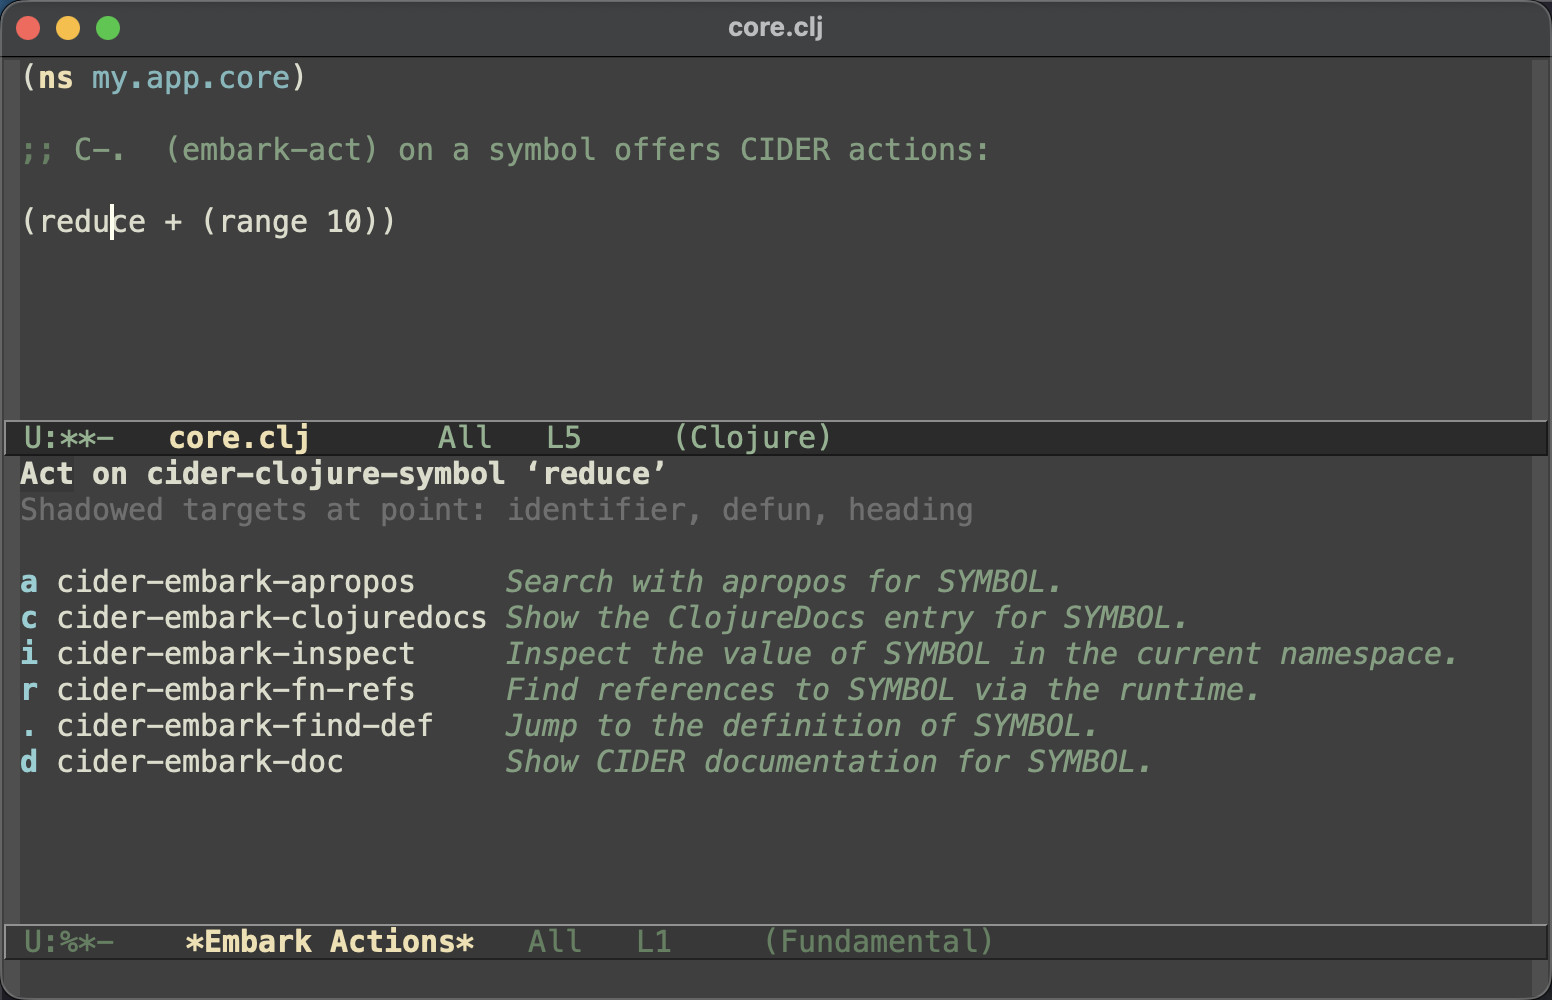
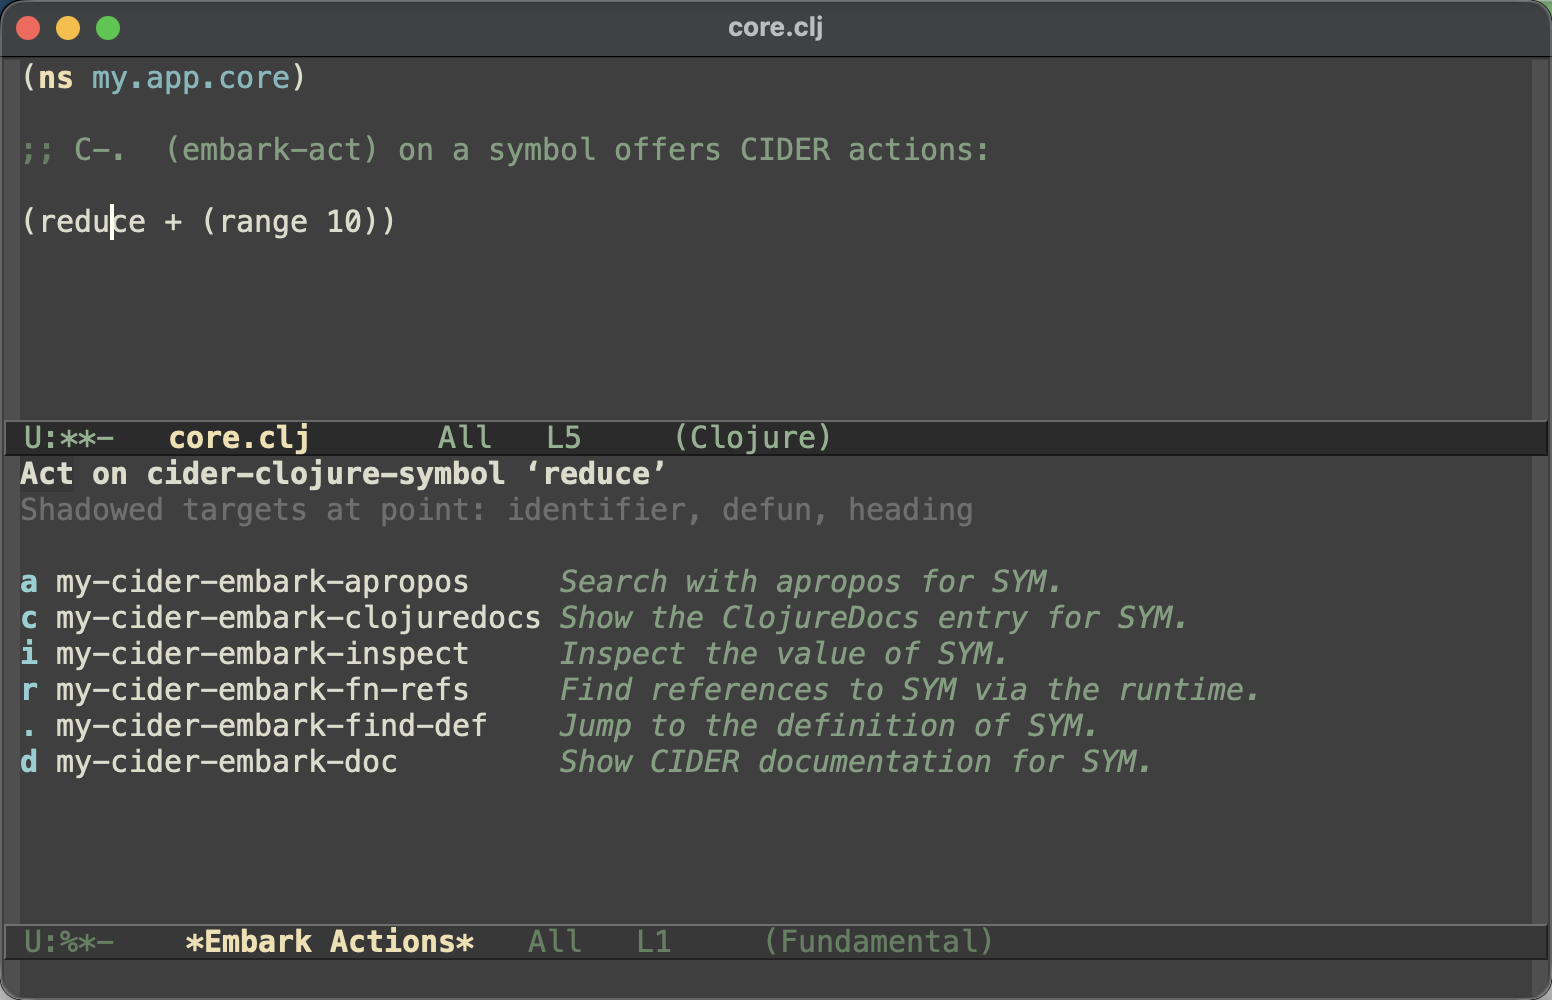
Document the Embark integration instead of shipping it
The shipped cider-embark.el coupled CIDER to an optional package and
auto-wired it, which turned out to be fragile: because the wiring was
autoloaded and the module required `cider' back, merely loading Embark pulled
in all of CIDER and could trigger a circular load.

Embark integrations are also inherently personal - which actions, which keys -
and CIDER otherwise leans on standard APIs (capf, completing-read,
affixation) rather than shipping glue for specific UI packages.  So drop the
module, the autoloaded hook and its tests, and instead document a copy-paste
recipe in the completion guide that users can drop in and tailor.

diff --git a/CHANGELOG.md b/CHANGELOG.md
@@ -10,7 +10,6 @@
 
 - [#4117](https://github.com/clojure-emacs/cider/pull/4117): Add `cider-use-completing-read-for-symbol` (off by default): when enabled, symbol prompts (e.g. `cider-doc`, `cider-find-var`) read through `completing-read` over a lazy, runtime-backed collection, so they work with `completing-read` UIs (Vertico, Ivy, Helm) and annotate candidates with their type and namespace.
 - [#4129](https://github.com/clojure-emacs/cider/pull/4129): Render completion annotations as an aligned type/namespace column (via an `affixation-function`) in UIs that support it, such as the built-in `*Completions*`, Corfu and Vertico.
-- [#4132](https://github.com/clojure-emacs/cider/pull/4132): Add optional [Embark](https://github.com/oantolin/embark) integration: `embark-act` on a Clojure symbol (at point, or as a completion candidate) offers CIDER actions - documentation, jump to definition, references, inspect, ClojureDocs, apropos. Loaded automatically when Embark is present; no configuration or hard dependency.
 
 ## 2.0.1 (2026-07-23)
 
